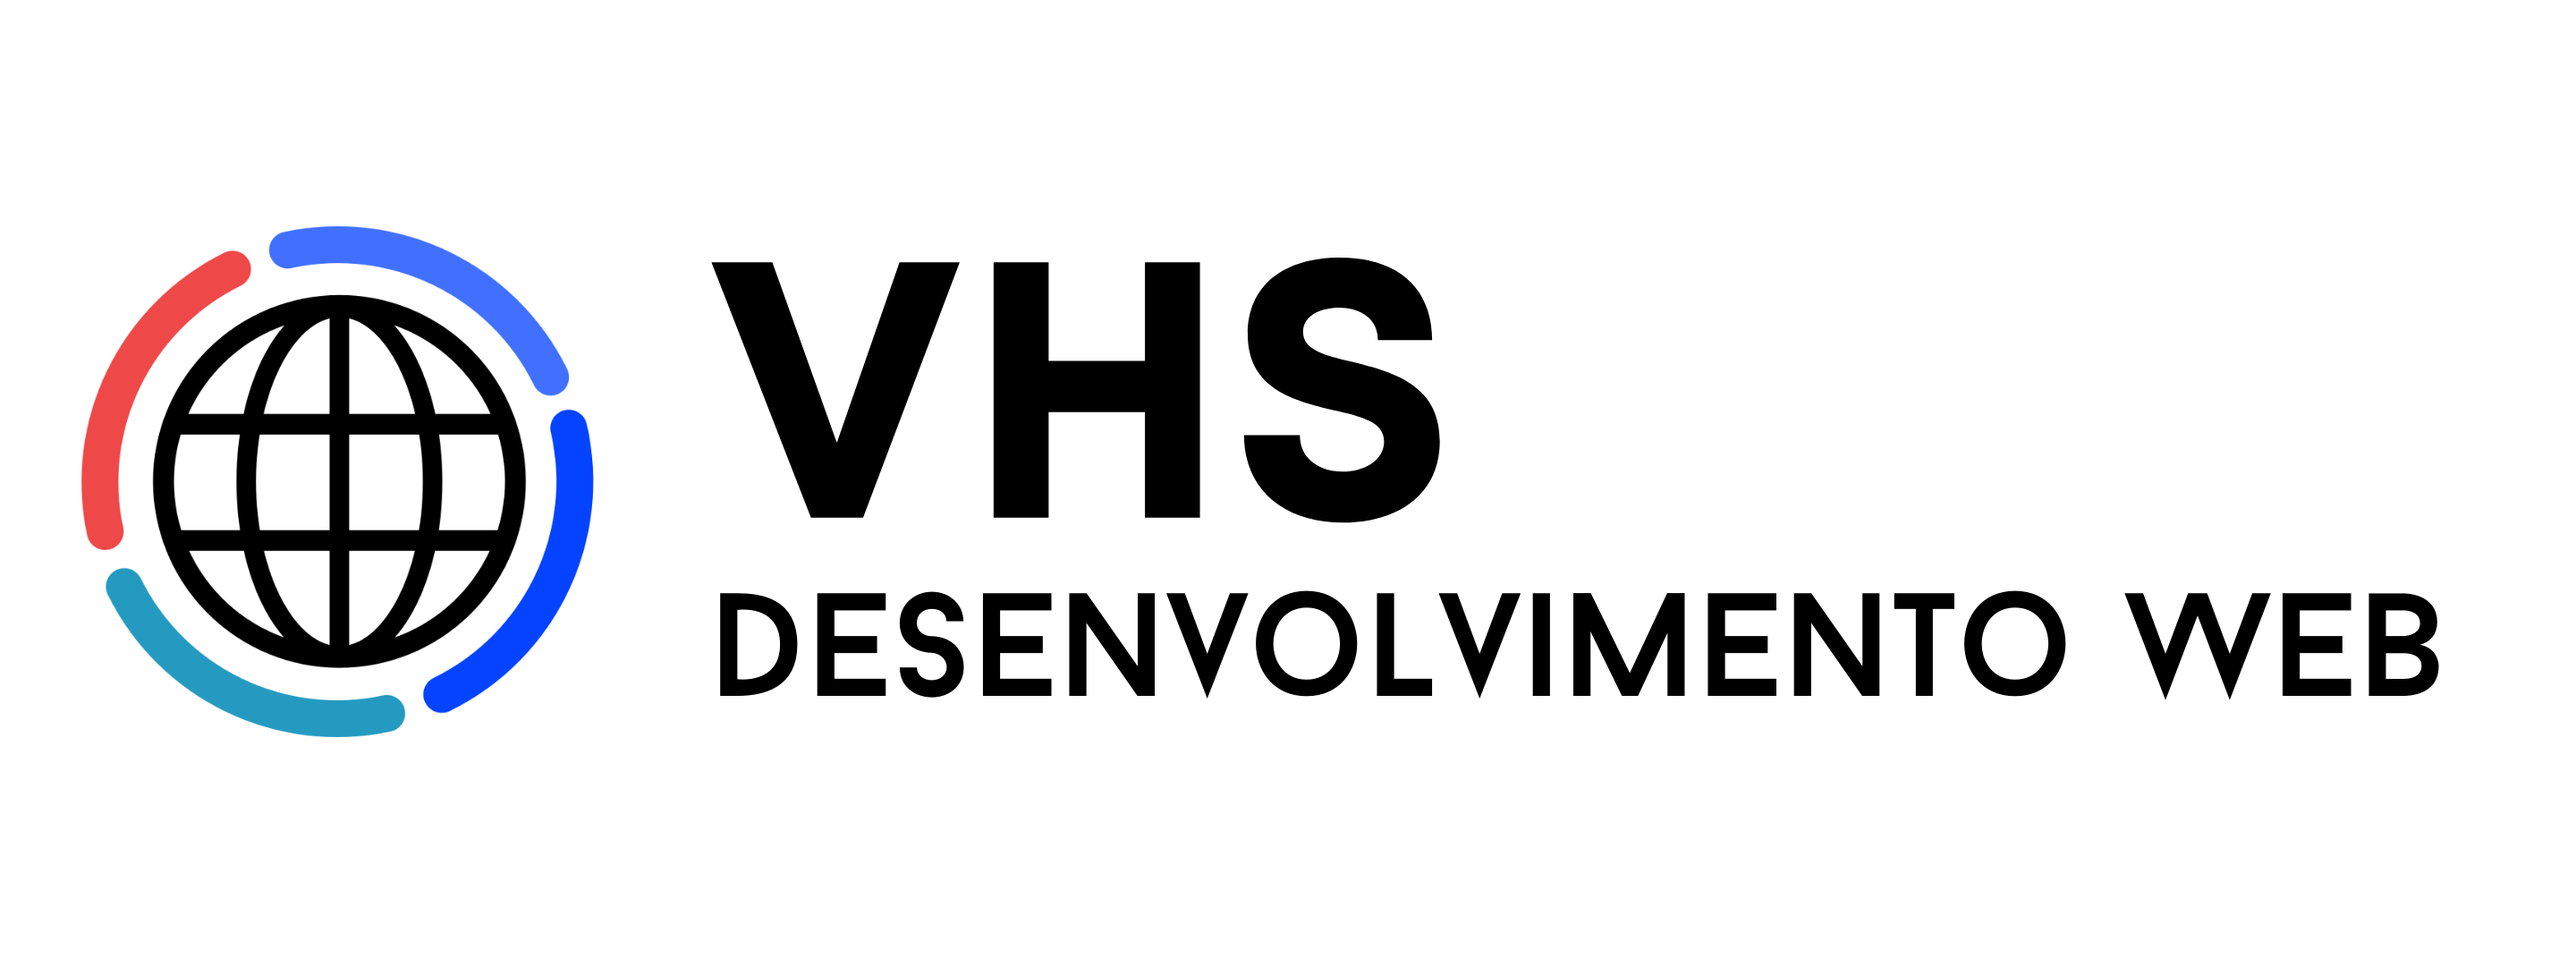
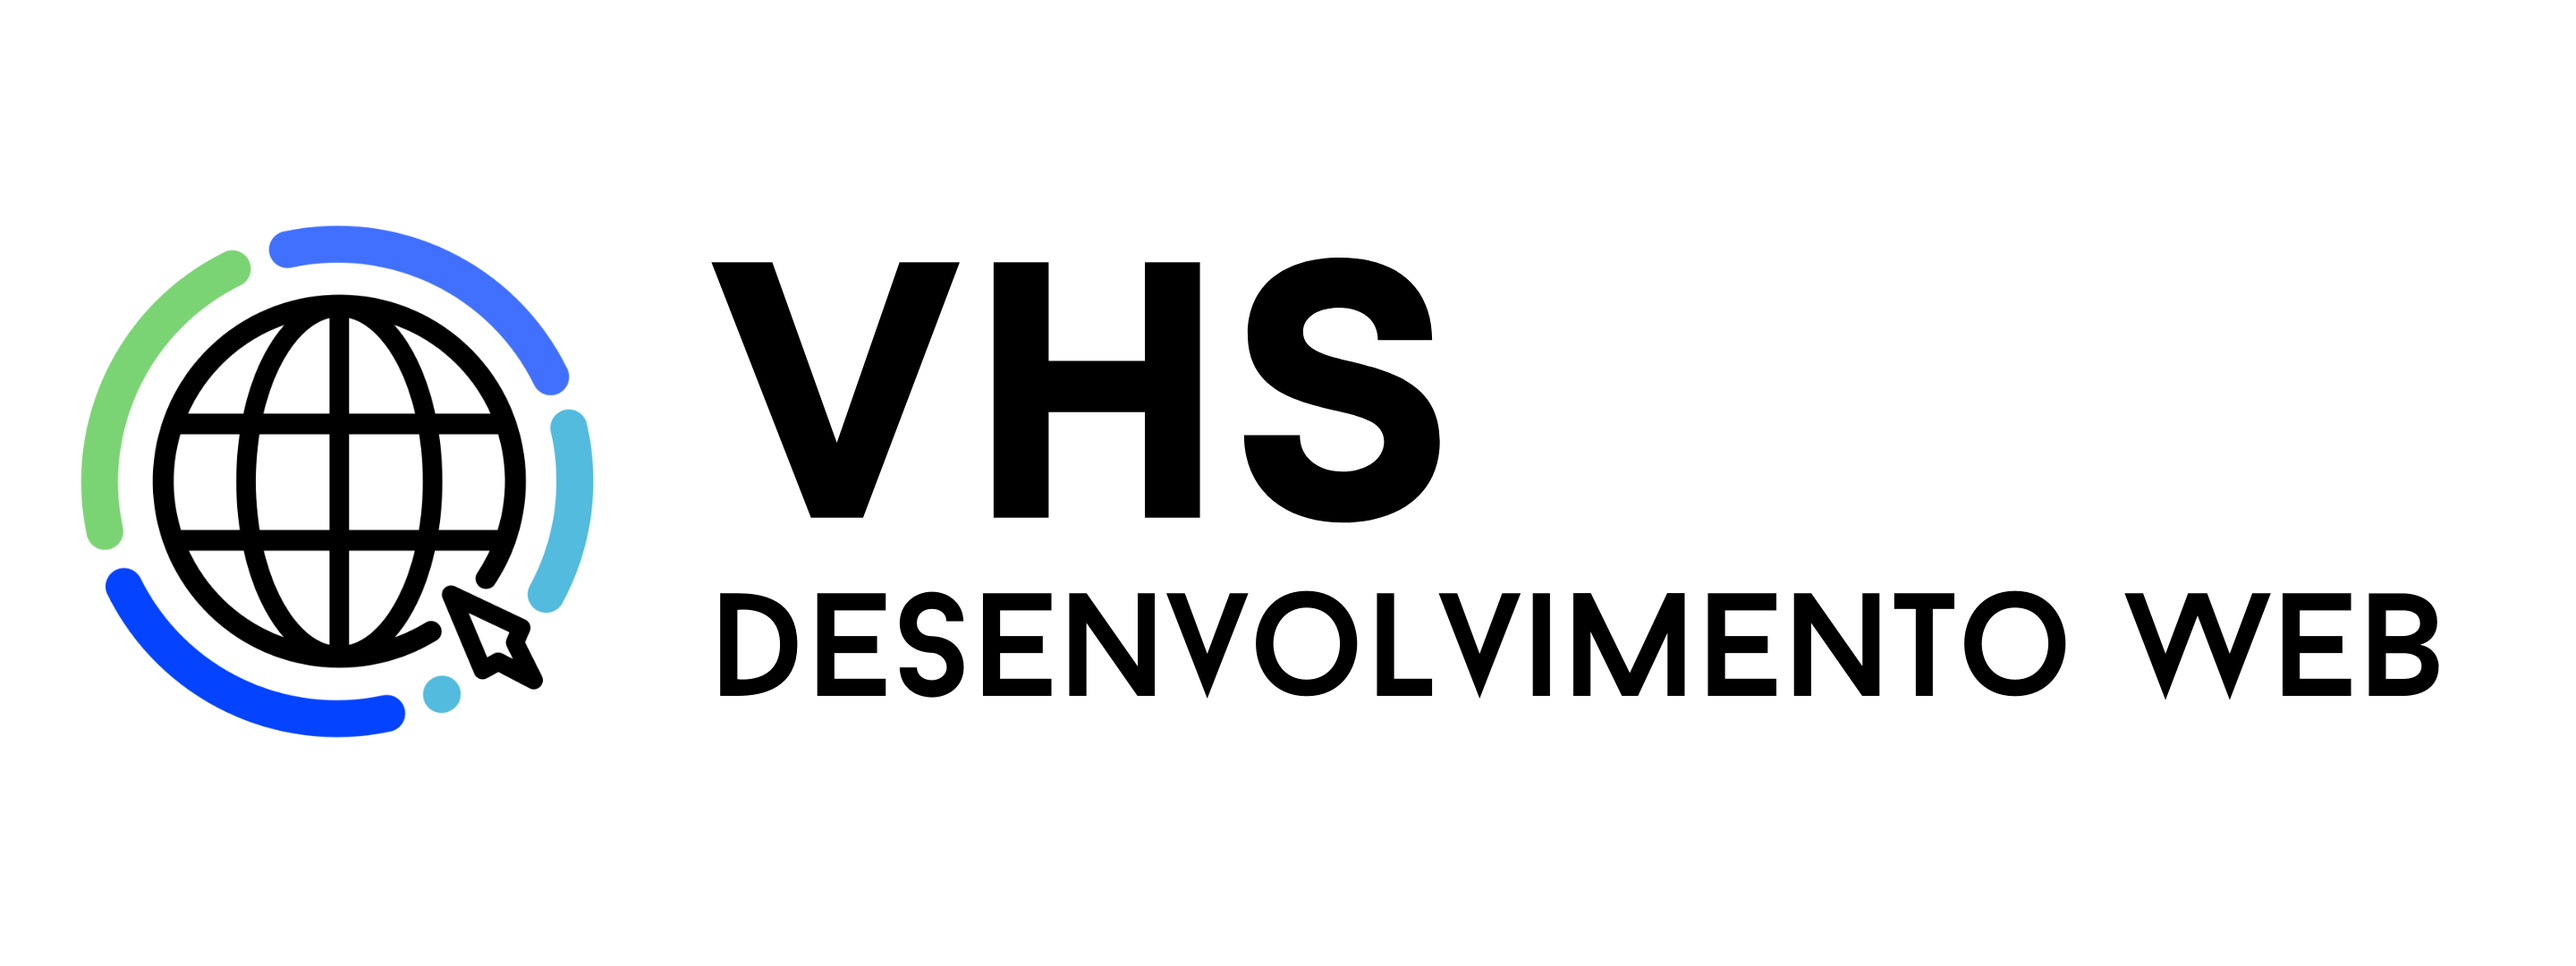
update 7

Changed region(s): [[0.0312, 0.2444, 0.25, 0.7639]]

diff --git a/css/index.css b/css/index.css
@@ -58,6 +58,7 @@ header {
     background-color: #fff;
     gap: 150px;
     box-shadow: 0px 10px 10px #0000001a;
+    z-index: 2;
 }
 
 .logo img {
@@ -73,6 +74,10 @@ header {
     justify-content: center;
     gap: 70px;
     width: fit-content;
+}
+
+.items.active {
+    display: flex;
 }
 
 .item {
@@ -107,7 +112,7 @@ header {
     color: var(--cor-hover);
 }
 
-.item:hover>i {
+.item:hover > i {
     opacity: 1;
     translate: -30px 0px;
 }
@@ -121,61 +126,37 @@ header {
     display: none;
 }
 
-@media (max-width: 1080px) {}
-
-@-webkit-keyframes bg-gradient-animation {
-    0% {
-        background-position: 69% 0%
+@media (max-width: 1250px) {
+    header {
+        justify-content: space-between;
     }
 
-    50% {
-        background-position: 32% 100%
+    .items {
+        display: none;
+        position: absolute;
+        top: 90px;
+        right: 0;
+        flex-direction: column;
+        background-color: #fff;
+        width: 200px;
+        box-shadow: 0px 10px 10px #0000001a;
+        padding: 30px;
+        padding-left: 55px;
+        gap: 50px;
+        border-bottom-left-radius: 5px;
+        border-bottom-right-radius: 5px;
+        z-index: 1;
     }
 
-    100% {
-        background-position: 69% 0%
+    .menu-icon {
+        display: flex;
+        cursor: pointer;
+        font-size: 30px;
+        color: #000;
     }
-}
-
-@-moz-keyframes bg-gradient-animation {
-    0% {
-        background-position: 69% 0%
-    }
-
-    50% {
-        background-position: 32% 100%
-    }
-
-    100% {
-        background-position: 69% 0%
-    }
-}
-
-@-o-keyframes bg-gradient-animation {
-    0% {
-        background-position: 69% 0%
-    }
-
-    50% {
-        background-position: 32% 100%
-    }
-
-    100% {
-        background-position: 69% 0%
-    }
-}
-
-@keyframes bg-gradient-animation {
-    0% {
-        background-position: 69% 0%
-    }
-
-    50% {
-        background-position: 32% 100%
-    }
-
-    100% {
-        background-position: 69% 0%
+    
+    .hero-content {
+        align-items: flex-start;
     }
 }
 
@@ -188,20 +169,35 @@ header {
     align-items: center;
     justify-content: center;
     color: #fff;
-
-    background: linear-gradient(342deg, #0447ff, #418dff, #52bbde);
+    background: linear-gradient(342deg, #012ca0, #2766c5, #52bbde, #bbeeff);
     background-size: 600% 600%;
+    animation: bg-gradient-animation 5s ease infinite;
+}
 
-    -webkit-animation: bg-gradient-animation 6s ease infinite;
-    -moz-animation: bg-gradient-animation 6s ease infinite;
-    -o-animation: bg-gradient-animation 6s ease infinite;
-    animation: bg-gradient-animation 6s ease infinite;
+@keyframes bg-gradient-animation {
+    0% {
+        background-position: 69% 0%
+    }
+    
+    50% {
+        background-position: 32% 100%
+    }
+    
+    100% {
+        background-position: 69% 0%
+    }
 }
 
 .hero-content {
     display: flex;
     flex-direction: column;
     align-items: center;
+}
+
+@media (max-width: 768px) {
+    .hero-content {
+        align-items: flex-start;
+    }
 }
 
 .hero-content h1 {
@@ -231,14 +227,22 @@ header {
     font-weight: bold;
     text-decoration: none;
     border-radius: 5px;
-    box-shadow: -10px 10px 0px #00000033;
     z-index: 1;
+    position: relative;
+    --btn-w: 200px; /* fallback; will be synced by JS */
+}
+
+@media (max-width: 768px) {
+    .saibamais-btn{
+        width: 100%;
+    }
 }
 
 .saibamais-btn:hover {
-    translate: -10px 10px;
-    box-shadow: -0px 0px 0px #00000033;
+    background-color: #000;
+    color: #ffffff;
     transition: all 0.3s ease-out;
+    translate: 0px 0px;
 }
 
 .saibamais-btn::before {
@@ -248,77 +252,70 @@ header {
     background-color: #ffffff;
     width: 15px;
     height: 15px;
-    border-radius: 100%;
+    border-radius: 50px;
     top: 0;
     left: 0;
-    translate: -20px -20px;
-    z-index: 2;
-}
-
-.saibamais-btn::after {
-    content: '';
-    opacity: 0;
-    position: absolute;
-    background-color: #292929;
-    width: 15px;
-    height: 15px;
-    border-radius: 100%;
-    top: 0;
-    right: 0;
-    translate: 20px -20px;
+    transform: translate(-20px, -20px);
     z-index: 2;
 }
 
 .saibamais-btn:hover::before {
     opacity: 1;
-    animation: btn-circle-animation-1 2s ease-out infinite;
+    animation: btn-circle-animation 10s ease-out infinite;
 }
 
-.saibamais-btn:hover::after {
-    opacity: 1;
-    animation: btn-circle-animation-2 2s ease-out infinite;
-}
-
-@keyframes btn-circle-animation-1 {
+@keyframes btn-circle-animation {
     0% {
-        translate: 205px -20px
+        transform: translate(calc(var(--btn-w)), -20px);
+        width: 50px;
+        height: 15px;
+    }
+
+    12% {
+        transform: translate(calc(var(--btn-w)), -20px);
+        width: 15px;
+        height: 15px;
     }
 
     25% {
-        translate: 205px 55px
+        transform: translate(calc(var(--btn-w)), 55px);
+        width: 15px;
+        height: 50px;
+    }
+
+    37% {
+        transform: translate(calc(var(--btn-w)), 55px);
+        width: 15px;
+        height: 15px;
     }
 
     50% {
-        translate: -20px 55px
+        transform: translate(-20px, 55px);
+        width: 50px;
+        height: 15px;
+    }
+
+    62% {
+        transform: translate(-20px, 55px);
+        width: 15px;
+        height: 15px;
     }
 
     75% {
-        translate: -20px -20px
+        transform: translate(-20px, -20px);
+        width: 15px;
+        height: 50px;
+    }
+
+    82% {
+        transform: translate(-20px, -20px);
+        width: 15px;
+        height: 15px;
     }
 
     100% {
-        translate: 205px -20px
-    }
-}
-
-@keyframes btn-circle-animation-2 {
-    0% {
-        translate: -205px -20px
-    }
-
-    25% {
-        translate: -205px -20px
-    }
-
-    50% {
-        translate: -205px 55px
-    }
-
-    75% {
-        translate: -20px 55px
-    }
-
-    100% {
-        translate: -20px -20px
+        transform: translate(calc(var(--btn-w)), -20px);
+        width: 50px;
+        height: 15px;
     }
 }

diff --git a/index.html b/index.html
@@ -9,13 +9,12 @@
     <link rel="preconnect" href="https://fonts.gstatic.com" crossorigin>
     <title>VHS Desenvolvimento Web</title>
     <link rel="stylesheet" href="css/index.css">
-    <link rel="icon" type="image/png" href="imgs/isotipovhs2.png">
+    <link rel="icon" type="image/png" href="imgs/isotipovhs.png">
 </head>
 
 <body>
     <header>
-        <div class="logo"><img src="imgs/imagotipovhs2.png" alt="Logo"></div>
-
+        <div class="logo"><img src="imgs/imagotipovhs.png" alt="Logo"></div>
         <nav class="items">
             <div class="item">
                 <a href="index.html"></a>
@@ -48,19 +47,15 @@
                 <p>Contato</p>
             </div>
         </nav>
+        <a onclick="openMenu()" class="menu-icon"><i class="fa-solid fa-bars"></i></a>
 
-        <div class="menu-icon">
-            <a onclick=""><i class="fa-solid fa-bars"></i></a>
-        </div>
     </header>
 
     <main class="hero-container">
         <div class="hero-content">
             <h1>Seu negócio merece um site profissional</h1>
             <p>Criamos sites objetivos, intuitivos e que passam confiança.</p>
-            <div>
-                <a href="processo.html" class="saibamais-btn">Saiba mais</a>
-            </div>
+            <a href="processo.html" class="saibamais-btn">Saiba mais</a>
         </div>
     </main>
 

diff --git a/js/index.js b/js/index.js
@@ -137,3 +137,24 @@ items.forEach(item => {
     // item.addEventListener('mouseleave', function() { ... }); // ao sair
     // item.addEventListener('click', function() { ... }); // ao clicar
 });
+
+function openMenu() {
+    const nav = document.querySelector('.items');
+    nav.classList.toggle('active');
+}
+
+// Sincroniza a variável CSS --btn-w com a largura real do botão
+function syncSaibaMaisWidth() {
+    const buttons = document.querySelectorAll('.saibamais-btn');
+    buttons.forEach(btn => {
+        function setVar() {
+            btn.style.setProperty('--btn-w', btn.offsetWidth + 'px');
+        }
+        setVar();
+        // Atualiza ao redimensionar
+        window.addEventListener('resize', setVar);
+    });
+}
+
+// Executa após DOM carregado
+document.addEventListener('DOMContentLoaded', syncSaibaMaisWidth);
